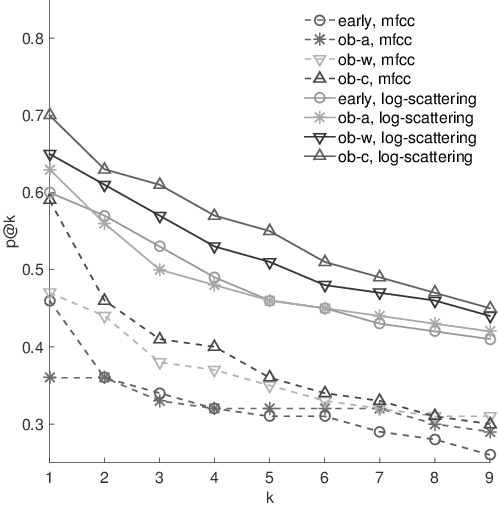
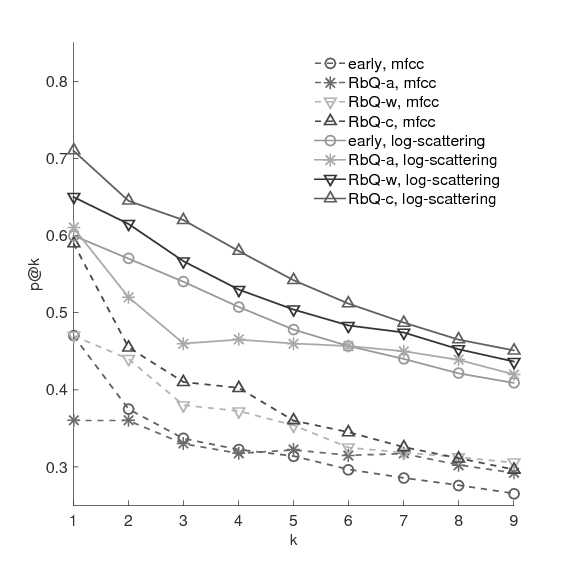
moving from ob* to RbQ*

diff --git a/paper/structureScene.tex b/paper/structureScene.tex
@@ -348,19 +348,19 @@ Here, $\mu_{m,q}^u$ and $\mu_{n,q}^v$ are the $q^{\textrm{th}}$ nearest neighbor
 
 To compute the similarity between two scenes, we then consider several centroid-based similarity metrics:
 \begin{itemize}
-\item \emph{ob-closest} (\emph{ob-c}): the similarity between two scenes $s_u$ and $s_v$ is equal to the largest similarity between their centroids, that is
+\item Relevance-based Quantization closest similarity (\emph{RbQ-c}): the similarity between two scenes $s_u$ and $s_v$ is equal to the largest similarity between their centroids, that is
 \begin{equation}
 	\max_{m,n} K_{mn}^{uv},
 \end{equation}
-\item \emph{ob-averaged} (\emph{ob-a}): the similarity between two scenes $s_u$ and $s_v$ is equal to the average of their centroid similarities, that is
+\item Relevance-based Quantization average similarity  (\emph{RbQ-a}): the similarity between two scenes $s_u$ and $s_v$ is equal to the average of their centroid similarities, that is
 \begin{equation}
 	\frac{1}{M^2} \sum_{m,n} K_{mn}^{uv}
 \end{equation}
 and,
-\item \emph{ob-weighted} (\emph{ob-w}): the similarity between two scenes is computed using a variant of the earth mover's distance applied to the set of centroids weighted by the number of frames assigned to its cluster.
+\item Relevance-based Quantization weighted similarity  (\emph{RbQ-w}): the similarity between two scenes is computed using a variant of the earth mover's distance applied to the set of centroids weighted by the number of frames assigned to its cluster.
 \end{itemize}
 
-For \emph{ob-w}, each centroid is weighted according to the number of frames belonging to its cluster. Each scene $s_u$ is thus described by a signature $p_u$ of $M$ clusters, where $p_u=\lbrace(\mu_1^u,w_1^u),(\mu_2^u,w_2^u),\ldots,(\mu_M^u,w_M^u)\rbrace$) and $\mu_m^u$ and $w_m^u$ are the centroid and the weight of the $m$th cluster, respectively. The similarity between scenes is then given by a cross-bin histogram distance known as the non-normalized earth mover's distance ($\widehat{\EMD}$) introduced by \cite{pele2008linear}. The $\widehat{\EMD}$ computes the distance between two histograms by finding the minimal cost for transforming one histogram into the other, where cost is measured by the number of transported histogram counts times the ``ground distance'' moved in terms of the histogram bins. In our case, the histogram counts are the clusters weights $w_m^u$ defined over the bins formed by the centroids $\mu_m^u$, so the ground distance is the distance over these cluster centroids.
+For \emph{RbQ-w}, each centroid is weighted according to the number of frames belonging to its cluster. Each scene $s_u$ is thus described by a signature $p_u$ of $M$ clusters, where $p_u=\lbrace(\mu_1^u,w_1^u),(\mu_2^u,w_2^u),\ldots,(\mu_M^u,w_M^u)\rbrace$) and $\mu_m^u$ and $w_m^u$ are the centroid and the weight of the $m$th cluster, respectively. The similarity between scenes is then given by a cross-bin histogram distance known as the non-normalized earth mover's distance ($\widehat{\EMD}$) introduced by \cite{pele2008linear}. The $\widehat{\EMD}$ computes the distance between two histograms by finding the minimal cost for transforming one histogram into the other, where cost is measured by the number of transported histogram counts times the ``ground distance'' moved in terms of the histogram bins. In our case, the histogram counts are the clusters weights $w_m^u$ defined over the bins formed by the centroids $\mu_m^u$, so the ground distance is the distance over these cluster centroids.
 
 To compute the $\widehat{\EMD}$, we use the implementation proposed in \cite{pele2009fast}. Given two signatures $p_u$ and $p_v$, the $\widehat{\EMD}$ is computed by solving the following linear program:
 \begin{equation}
@@ -533,13 +533,13 @@ This section presents evaluation results for the acoustic scene similarity retri
 
 \subsubsection*{MFCC \vs scattering transform}
 
-Irrespective of the rank $k$ considered, best result is achieved for the scattering transform with logarithmic compression using the \emph{ob-c} approach. Overall, log-compressed scattering coefficients systematically outperform MFCCs. This is to be expected since the scattering coefficients capture larger-scale modulations, as opposed to MFCCs which only describe the short-time spectral envelope.
+Irrespective of the rank $k$ considered, best result is achieved for the scattering transform with logarithmic compression using the \emph{RbQ-c} approach. Overall, log-compressed scattering coefficients systematically outperform MFCCs. This is to be expected since the scattering coefficients capture larger-scale modulations, as opposed to MFCCs which only describe the short-time spectral envelope.
 
 \subsubsection*{Relevance-based quantization \vs early integration}
 
-For the scattering transform, both \emph{ob-c} and \emph{ob-w} outperform \emph{early}, thus confirming the benefits of using an relevance-based quantization to improve the similarity measures between the scenes. However, it is worth noticing that \emph{ob-a} performs comparably to \emph{early}, showing that the discriminant information is destroyed by averaging the contributions from all centroids. To take advantage of an such a representation, we need to select certain representative centroids when comparing quantized objects. Furthermore, it appears that \emph{ob-c} is better able to characterize the classes than \emph{ob-w}. This last observation suggests that weighting a centroid according to the number of frames it contains may prove to be a limited solution. Indeed, nothing a priori indicates that the discriminant information between two scenes lays within the majority of their frames. On the contrary, two similar environments may shared a lot of similar sound sources with only a few sources discriminating between them.
+For the scattering transform, both \emph{RbQ-c} and \emph{RbQ-w} outperform \emph{early}, thus confirming the benefits of using an relevance-based quantization (RbQ) to improve the similarity measures between the scenes. However, it is worth noticing that \emph{RbQ-a} performs comparably to \emph{early}, showing that the discriminant information is destroyed by averaging the contributions from all centroids. To take advantage of an such a representation, we need to select certain representative centroids when comparing quantized objects. Furthermore, it appears that \emph{RbQ-c} is better able to characterize the classes than \emph{RbQ-w}. This last observation suggests that weighting a centroid according to the number of frames it contains may prove to be a limited solution. Indeed, nothing a priori indicates that the discriminant information between two scenes lays within the majority of their frames. On the contrary, two similar environments may shared a lot of similar sound sources with only a few sources discriminating between them.
 
-The same observations are made for the MFCCs for $k\leq5$. However for a rank $k$ greater than $5$, all the \emph{ob} approaches perform equivalently. As such, one can conclude that the use of MFCCs allows us to retrieve closely related scenes, but their lack of discriminative capabilities making the cluster selection/weighting step useless for not so closely related scenes of the same class
+The same observations are made for the MFCCs for $k\leq5$. However for a rank $k$ greater than $5$, all the \emph{RbQ} approaches perform equivalently. As such, one can conclude that the use of MFCCs allows us to retrieve closely related scenes, but their lack of discriminative capabilities making the cluster selection/weighting step useless for not so closely related scenes of the same class
 
 %This may be due to the fact that, at some point, the MFCCs fail to dissociate the discriminative events of a scene from the non-informative ones, thus making the cluster selection/weighting step useless. \ja{What is the ``at some point'' referring to? In other words, why do we expect this to happen for larger $k$ but not smaller?}
 	
